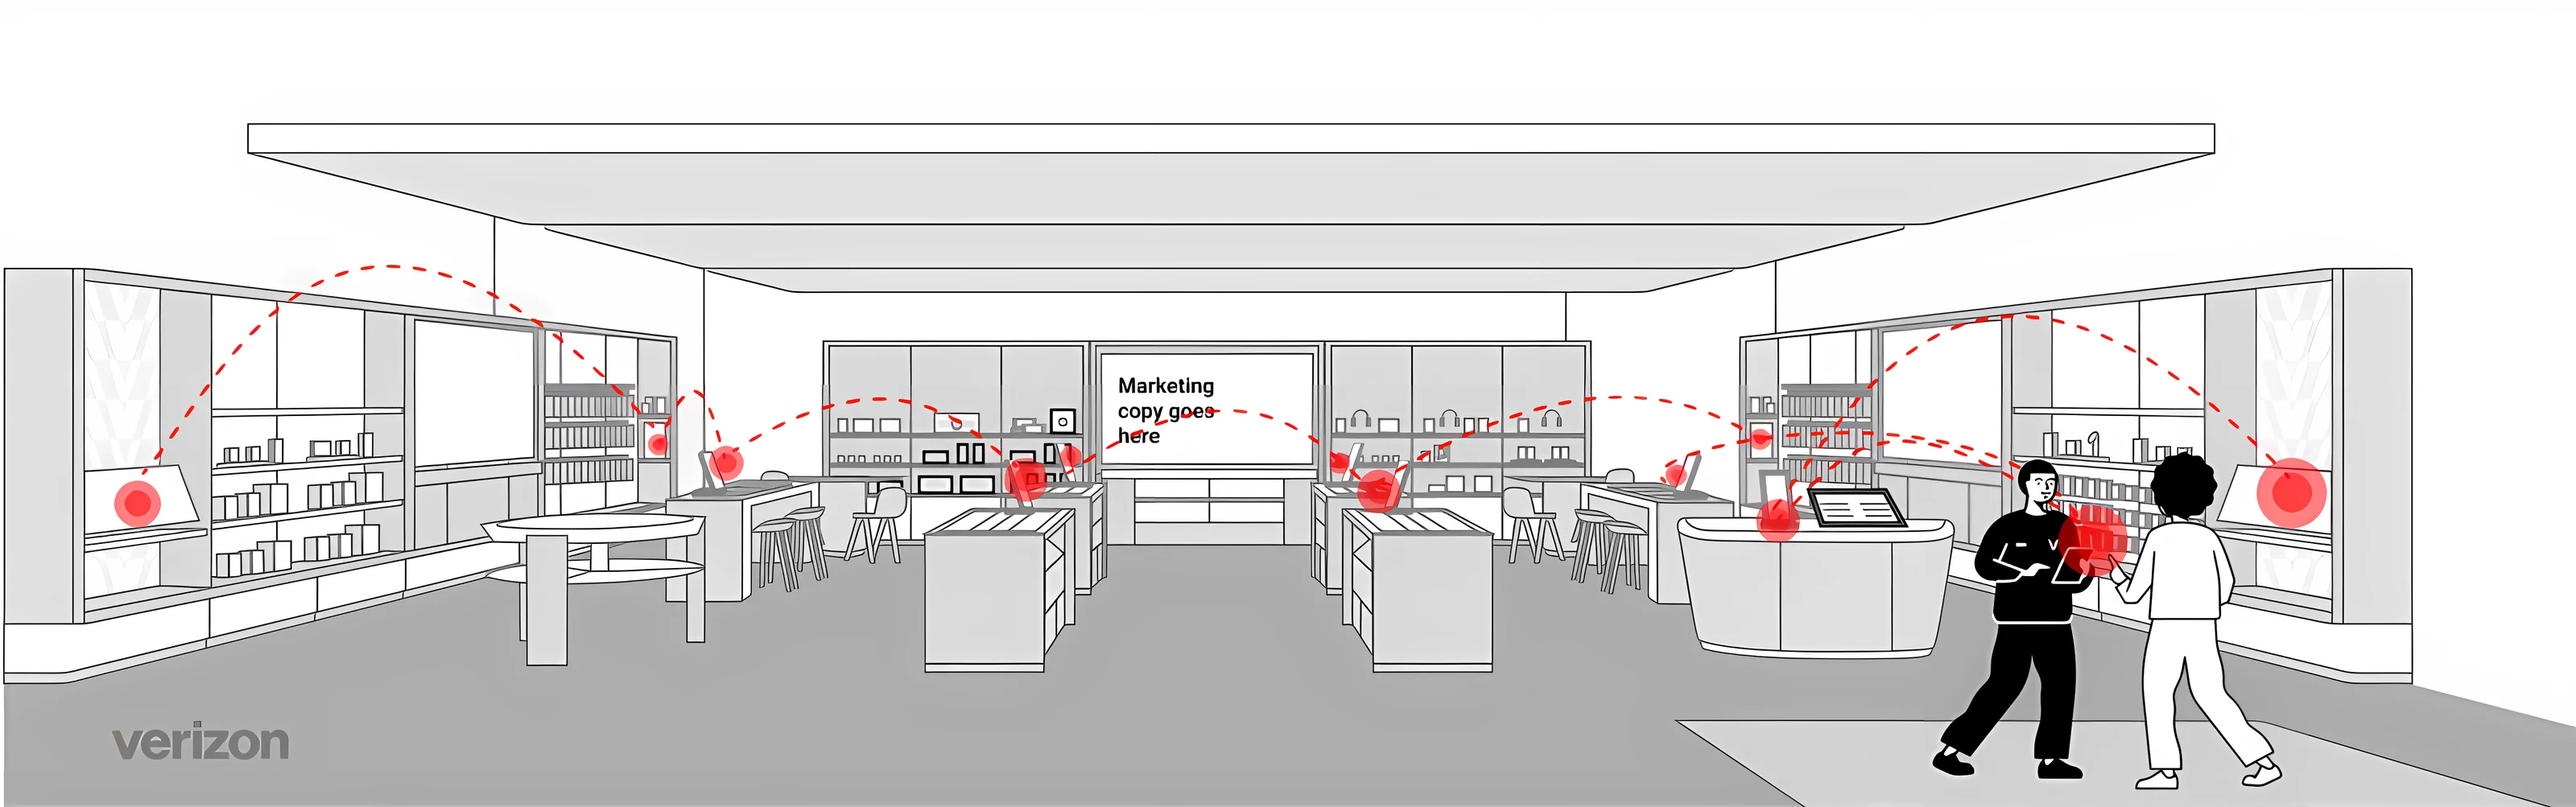
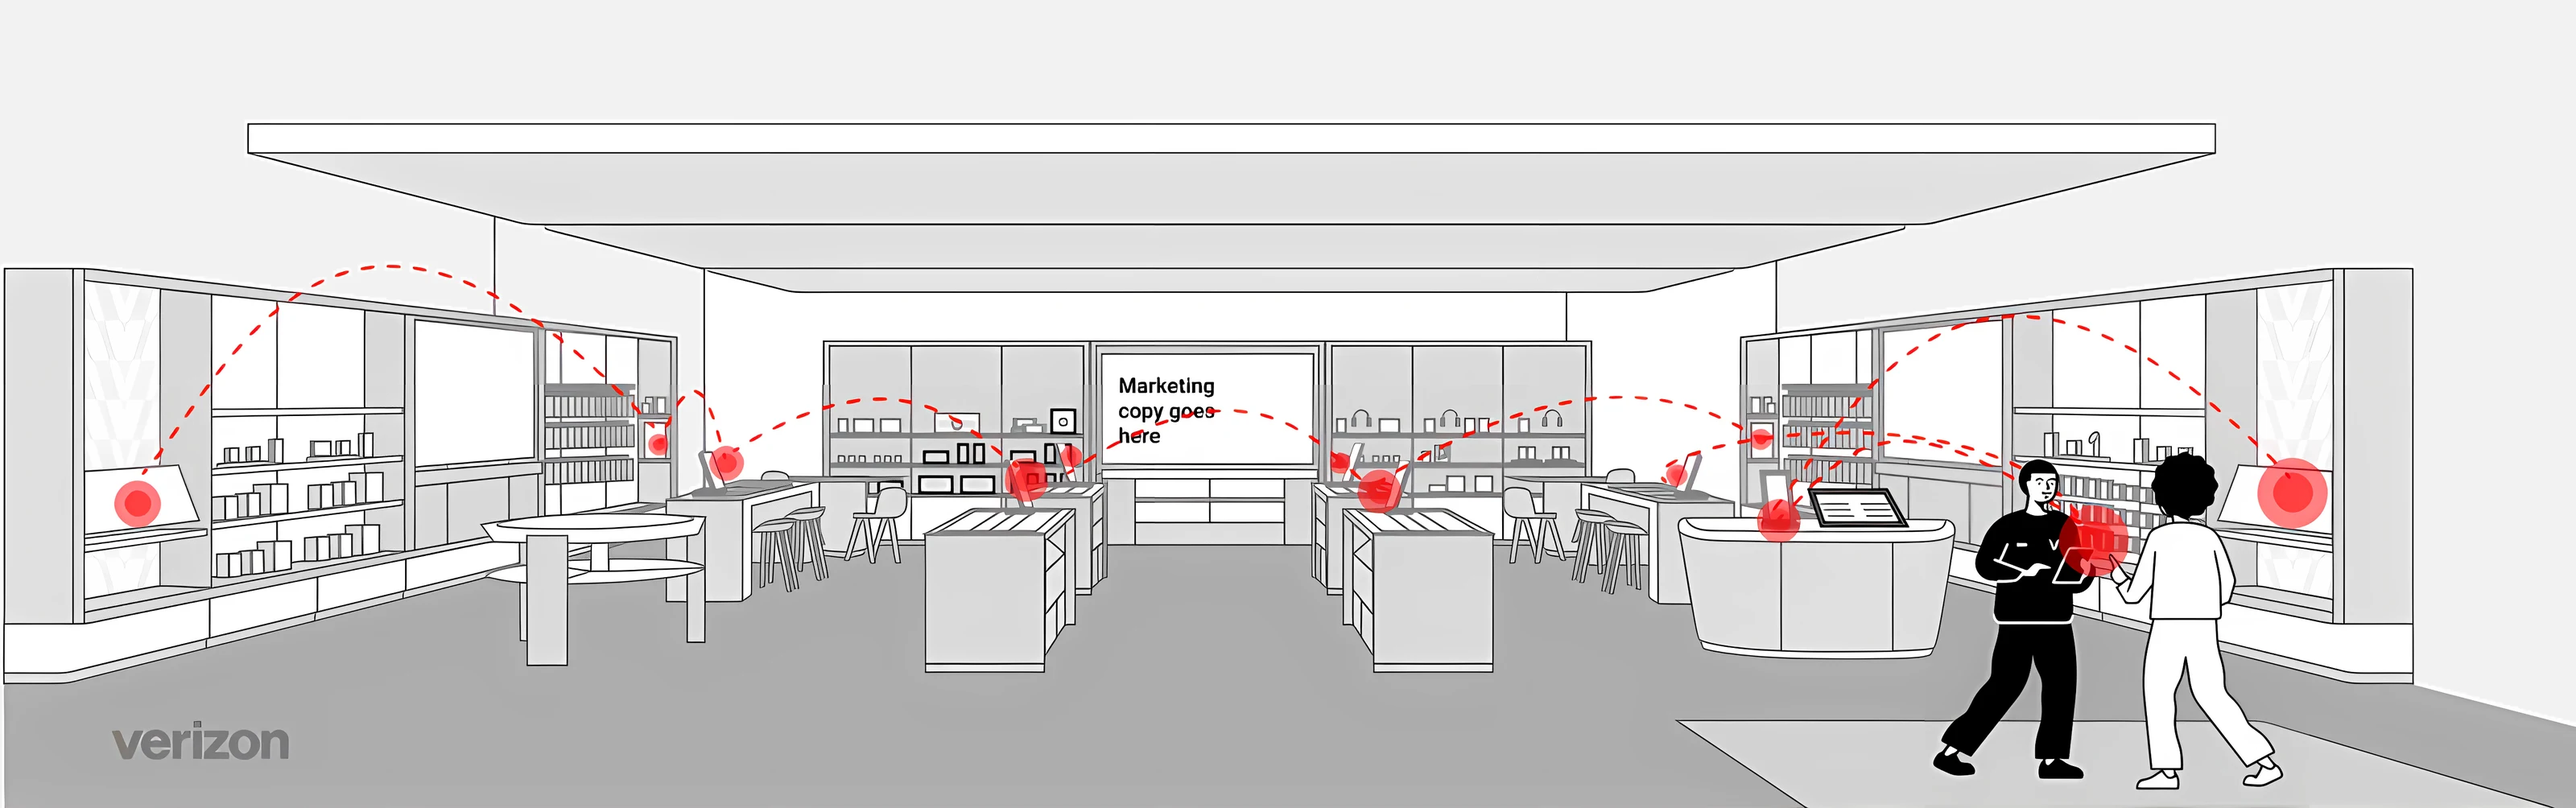
Store touchpoints: store map sits on the page background, no white frame
Claude-Session: https://claude.ai/code/session_01Gxf5dkLfSBFefbCwTUDPWE

diff --git a/src/components/case-study/StoreTouchpoints.tsx b/src/components/case-study/StoreTouchpoints.tsx
@@ -261,7 +261,7 @@ export function StoreTouchpoints() {
     <div>
       <div className="relative">
         {/* The store, with each screen as a pin */}
-        <div className="relative overflow-hidden rounded-[22px] bg-white md:rounded-[36px]" style={{ aspectRatio: "3200 / 1003" }}>
+        <div className="relative" style={{ aspectRatio: "3200 / 1004" }}>
           <Image
             src="/images/case-studies/design-systems/store-map-hd.webp"
             alt="A Verizon store floor with the screens the system runs on marked in red"
